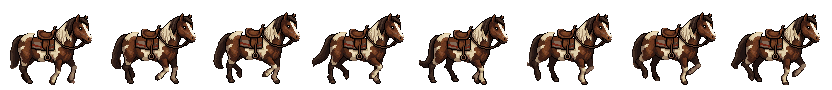
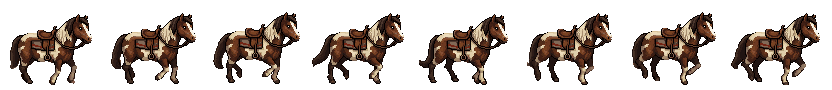
Mounts: the pony's back whole, the tiger's cat walk drawn
The author: the pony still has gaps on its back, and the tiger walks
like a horse. The pony's back behind the saddle was notched deeper than
the patch reached: a gap now fills from the bottom up, in the colour of
the rump beside it (the cream patch goes on under the saddle), and the
rump's edge, now inside the pony, takes that colour too. The Stajnia's
picture is made by tools/mount-trots.py with the same patch. The tiger
walks the twelve-frame cat walk PixelLab drew from the posed skeleton
(the version that flickers least), at ten frames a second.

Claude-Session: https://claude.ai/code/session_01EFZUMqpHps3KDRogHBzjf3

diff --git a/tools/mount-trots.py b/tools/mount-trots.py
@@ -26,8 +26,12 @@ A "trot" in art/mounts.json:
            pony's back between its rump and saddle): boxes [left, top,
            right, bottom) of the start frame, moved in each frame with the
            saddle; a clear pixel in one with the mount on both sides and
-           below takes the coat colour "coat", the "outline" where it meets
-           the clear above.
+           below takes the coat colour "coat" ("left": the colour of the
+           mount on the gap's left, not its outline), and the "outline",
+           if given, where it meets the clear above ("seam": the outline
+           on the gap's left, inside the mount now, takes the coat beside
+           it); a deep gap fills from the bottom up. The Stajnia's picture
+           takes the same patch.
 
     python3 -I tools/mount-trots.py [DRAFTS_DIR]
 
@@ -100,25 +104,57 @@ def patch(frame, rules, shift):
     px = frame.load()
     W, H = frame.size
     opaque = lambda x, y: 0 <= x < W and 0 <= y < H and px[x, y][3] >= 128
+    dx, dy = shift
+    original = frame.copy()
+    drawn = original.load()
     for rule in rules:
         x0, y0, x1, y1 = rule['box']
-        dx, dy = shift
+        x0, y0, x1, y1 = x0 + dx, y0 + dy, x1 + dx, y1 + dy
+
+        def coat(x, y):
+            # "left": the coat of the mount's part on the left of the gap
+            # (the rump's piebald goes on under the saddle), not its outline.
+            if rule['coat'] == 'left':
+                for k in range(1, x - x0 + 4):
+                    if 0 <= x - k < W:
+                        r, g, b, a = drawn[x - k, y]
+                        if a >= 128 and r * 299 + g * 587 + b * 114 >= 30000:
+                            return (r, g, b)
+                return walk.rgb(rule.get('fallback', '6c3820'))
+            return walk.rgb(rule['coat'])
+
         filled = []
-        for y in range(y0 + dy, y1 + dy):
-            for x in range(x0 + dx, x1 + dx):
-                if opaque(x, y) or not (0 <= x < W and 0 <= y < H):
-                    continue
-                left = any(opaque(x - k, y) for k in range(1, x - (x0 + dx) + 4))
-                right = any(opaque(x + k, y) for k in range(1, (x1 + dx) - x + 4))
-                below = any(opaque(x, y + k) for k in range(1, 6))
-                if left and right and below:
-                    filled.append((x, y))
-        coat, line = walk.rgb(rule['coat']), walk.rgb(rule['outline'])
-        for (x, y) in filled:
-            px[x, y] = (*coat, 255)
-        for (x, y) in filled:
-            if not opaque(x, y - 1):
-                px[x, y] = (*line, 255)
+        # A gap deeper than a few pixels (the pony's back behind the
+        # saddle) fills from the bottom up: each pass fills what has the
+        # mount on both sides and below, the pixels filled before counting.
+        while True:
+            found = []
+            for y in range(max(0, y0), min(H, y1)):
+                for x in range(max(0, x0), min(W, x1)):
+                    if opaque(x, y):
+                        continue
+                    left = any(opaque(x - k, y) for k in range(1, x - x0 + 4))
+                    right = any(opaque(x + k, y) for k in range(1, x1 - x + 4))
+                    below = any(opaque(x, y + k) for k in range(1, 6))
+                    if left and right and below:
+                        found.append((x, y))
+            if not found:
+                break
+            for (x, y) in found:
+                px[x, y] = (*coat(x, y), 255)
+            filled += found
+        if rule.get('seam'):
+            # The outline of the part on the gap's left (the rump's edge)
+            # is inside the mount now: it takes the coat next to it.
+            dark = lambda p: p[3] >= 128 and p[0] * 299 + p[1] * 587 + p[2] * 114 < 30000
+            for (x, y) in filled:
+                if x >= 2 and dark(drawn[x - 1, y]) and drawn[x - 2, y][3] >= 128 and not dark(drawn[x - 2, y]):
+                    px[x - 1, y] = drawn[x - 2, y][:3] + (255,)
+        if rule.get('outline'):
+            line = walk.rgb(rule['outline'])
+            for (x, y) in filled:
+                if not opaque(x, y - 1):
+                    px[x, y] = (*line, 255)
     return frame
 
 
@@ -146,6 +182,10 @@ def main():
         if trot.get('patch'):
             sx, sy = trot['seat'] if trot.get('seat_in') == 'start' else seats[0]
             frames = [patch(frame, trot['patch'], (x - sx, y - sy)) for frame, (x, y) in zip(frames, seats)]
+            # The Stajnia's picture is the start frame cut to the mount.
+            start = Image.open(os.path.join(ROOT, mount['start'])).convert('RGBA')
+            picture = patch(start.copy(), trot['patch'], (0, 0)).crop(start.getbbox())
+            picture.save(os.path.join(ROOT, 'src', 'client', 'art', 'mounts', f'{mount_id}.png'), optimize=True)
         sheet = Image.new('RGBA', (width * len(frames), height), (0, 0, 0, 0))
         for index, frame in enumerate(frames):
             sheet.alpha_composite(frame, (index * width, 0))
